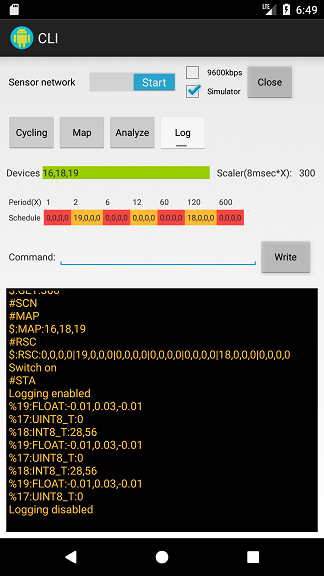
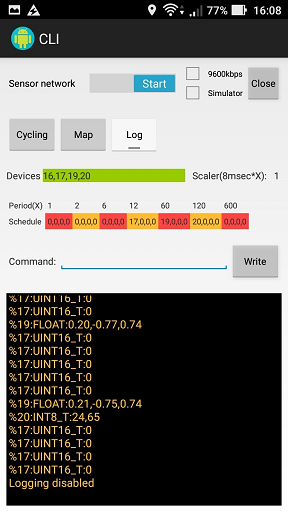
support NO_DATA

diff --git a/src/app/src/main/java/jp/araobp/iot/sensor_network/SensorNetworkService.kt b/src/app/src/main/java/jp/araobp/iot/sensor_network/SensorNetworkService.kt
@@ -120,19 +120,21 @@ abstract class SensorNetworkService: Service(), SensorEventListener {
 
         when (message.substring(startIndex = 0, endIndex = 1)) {
             "%" -> {
-                Log.d(TAG, response[0])
+                Log.d(TAG, message + "/" + response.toString())
                 sensorData.deviceId = response[0].substring(1).toInt()
                 sensorData.type = response[1]
-                val dataStringList: List<String> = response[2].split(",".toRegex()).toList()
-                when (sensorData.type) {
-                    SensorNetworkProtocol.FLOAT -> sensorData.data = dataStringList.map { it.toFloat() }.toList()
-                    SensorNetworkProtocol.INT8_T, SensorNetworkProtocol.UINT8_T,
-                    SensorNetworkProtocol.INT16_T, SensorNetworkProtocol.UINT16_T
-                    -> sensorData.data = dataStringList.map { it.toInt() }.toList()
-                }
-                mEdgeComputing?.onSensorData(sensorData)
-                if (mLoggingEnabled) {
-                    mEventBus.post(sensorData)
+                if (sensorData.type != SensorNetworkProtocol.NO_DATA) {
+                    val dataStringList: List<String> = response[2].split(",".toRegex()).toList()
+                    when (sensorData.type) {
+                        SensorNetworkProtocol.FLOAT -> sensorData.data = dataStringList.map { it.toFloat() }.toList()
+                        SensorNetworkProtocol.INT8_T, SensorNetworkProtocol.UINT8_T,
+                        SensorNetworkProtocol.INT16_T, SensorNetworkProtocol.UINT16_T
+                        -> sensorData.data = dataStringList.map { it.toInt() }.toList()
+                    }
+                    mEdgeComputing?.onSensorData(sensorData)
+                    if (mLoggingEnabled) {
+                        mEventBus.post(sensorData)
+                    }
                 }
             }
             "#" -> {

diff --git a/src/app/src/main/java/jp/araobp/iot/sensor_network/service/FtdiDriver.kt b/src/app/src/main/java/jp/araobp/iot/sensor_network/service/FtdiDriver.kt
@@ -92,9 +92,7 @@ class FtdiDriver : SensorNetworkService() {
                     c = mReadBuf[i].toChar()
                     mCharBuf[offset++] = c
                     if (c == mDelimiter) {
-                        if (offset >= 3) {
-                            rx(String(mCharBuf, 0, offset - 1))
-                        }
+                        rx(String(mCharBuf, 0, offset - 1))
                         offset = 0
                     }
                     i++

diff --git a/src/app/src/main/java/jp/araobp/iot/sensor_network/SensorNetworkProtocol.kt b/src/app/src/main/java/jp/araobp/iot/sensor_network/SensorNetworkProtocol.kt
@@ -25,6 +25,8 @@ object SensorNetworkProtocol {
     const val UINT8_T           = "UINT8_T"
     const val INT16_T           = "INT16_T"
     const val UINT16_T          = "UINT16_T"
+    const val NO_DATA           = "NO_DATA"
+
     const val DOUBLE            = "DOUBLE"  // for android-built-in sensors only
 
     // --- Device IDs -----------------------------------------------------------------------------

diff --git a/README.md b/README.md
@@ -127,7 +127,7 @@ Since smartphone's USB port is occupied, connect adb to the smartphone via WiFi 
 4. adb logcal
 ```
 
-Or use the sensor network simulator included in this repo.
+Or use the sensor network simulator included in this repo ![screen shot](./doc/simulator_with_ide.png)
 
 ## Links
 - [My smart phone: ASUS ZenFone Lazer](https://www.asus.com/Phone/ZenFone-2-Laser-ZE500KL/)
